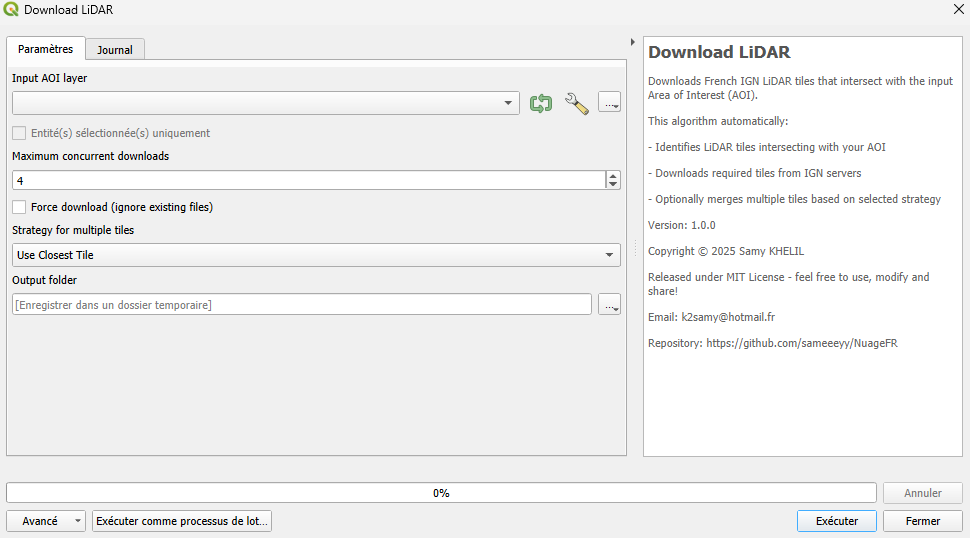
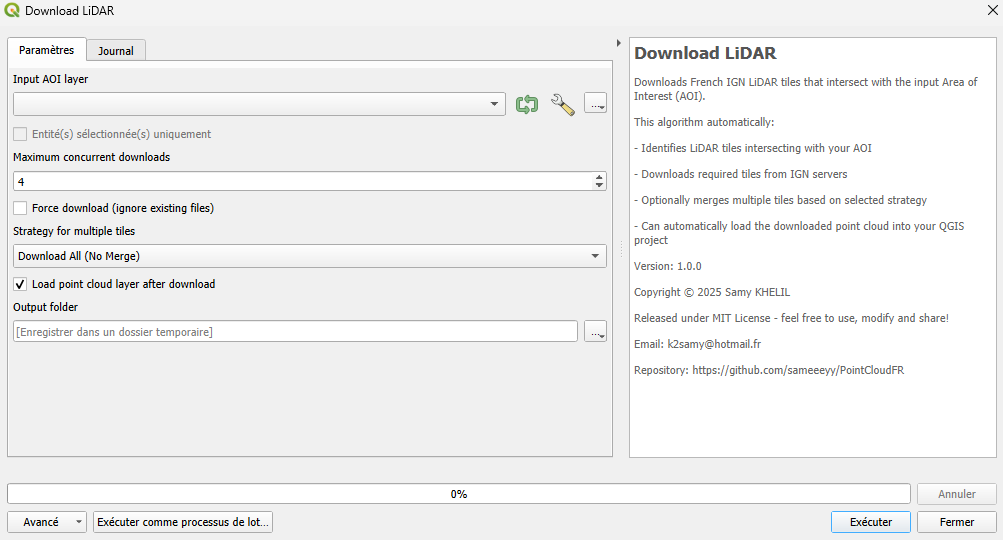
Help text upgrade

diff --git a/lidar_algorithm.py b/lidar_algorithm.py
@@ -61,21 +61,19 @@ class LidarDownloaderAlgorithm(QgsProcessingAlgorithm):
 
     def shortHelpString(self):
         """Returns a short help string for the algorithm."""
-        help_text = """
-    Downloads French IGN LiDAR tiles that intersect with the input Area of Interest (AOI).
+        help_text =  help_text = """
+Downloads French IGN LiDAR HD tiles that intersect with the input Area of Interest (AOI).
+Available processing strategies:
+- Download All (No Merge): Get all raw tiles for custom processing
+- Merge All Intersecting: Combines all intersecting tiles
+- Use Most Coverage: Selects the tile with maximum overlap
 
-    This algorithm automatically:
-    - Identifies LiDAR tiles intersecting with your AOI
-    - Downloads required tiles from IGN servers
-    - Optionally merges multiple tiles based on selected strategy
-    - Can automatically load the downloaded point cloud into your QGIS project
-
-    Version: 1.0.0
-    Copyright © 2025 Samy KHELIL
-    Released under MIT License - feel free to use, modify and share!
-    Email: k2samy@hotmail.fr
-    Repository: https://github.com/sameeeyy/PointCloudFR
-    """
+Version: 1.0.0
+Copyright © 2024-2025 Samy KHELIL
+Released under GNU General Public License v3 - you are free to use, modify and share under the terms of the GPL v3 license.
+Email: k2samy@hotmail.fr
+Repository: https://github.com/sameeeyy/PointCloudFR
+"""
         return self.tr(help_text)
 
     def initAlgorithm(self, config=None):
